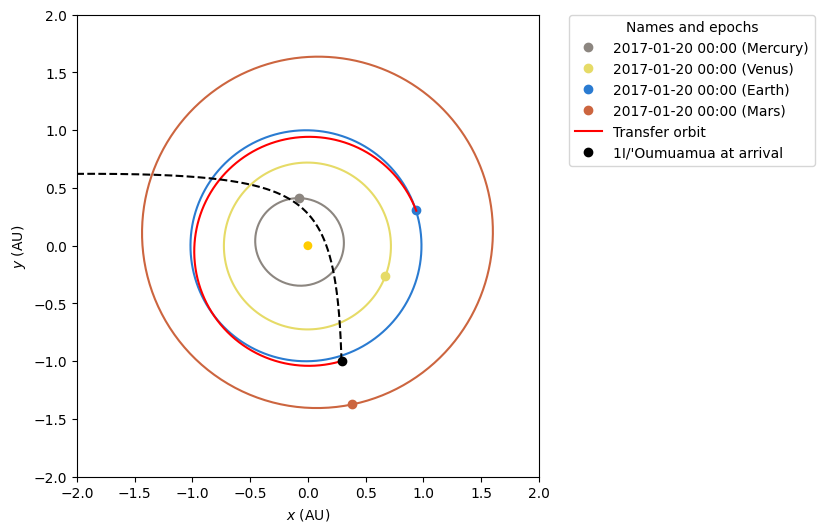
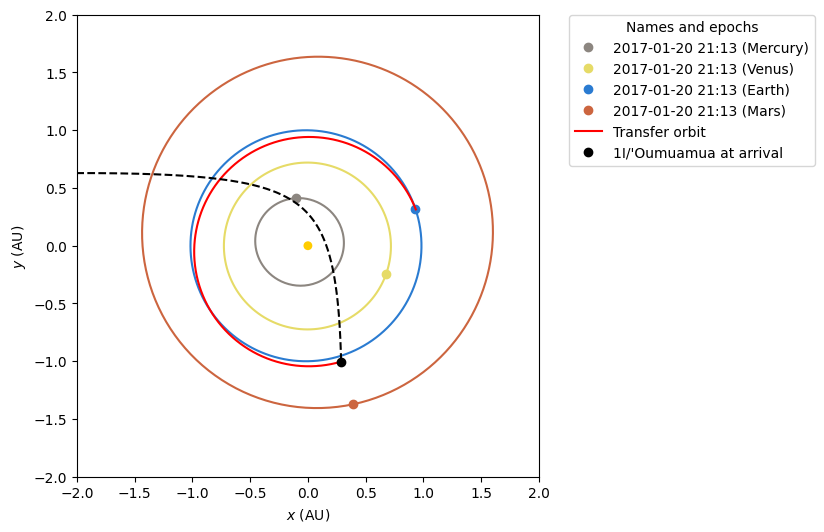
feat: consider escape velocity

diff --git a/bin/oumuamua_porkchop_optimum.py b/bin/oumuamua_porkchop_optimum.py
@@ -2,25 +2,34 @@ from astropy import units as u
 from matplotlib import pyplot as plt
 import numpy as np
 
-from poliastro.ephem import Ephem
+from poliastro.bodies import Sun
 from poliastro.frames import Planes
+from poliastro.ephem import Ephem
+from poliastro.twobody import Orbit
+from poliastro.frames import Planes
+from poliastro.twobody.sampling import EpochsArray
 from poliastro.plotting.porkchop import PorkchopPlotter
 from poliastro.util import time_range
+from poliastro.maneuver import Maneuver
+from poliastro.plotting.misc import plot_solar_system
 
 
 def solve_porkchop(prograde=True):
     # Declare the launch and arrival spans
     N = 200
     launch_span = time_range("2016-10-01", end="2017-10-01", num_values=N, scale="tdb")
-    arrival_span = time_range("2017-09-12", end="2018-04-01", num_values=N, scale="tdb")
+    arrival_span = time_range("2017-09-12", end="2018-01-15", num_values=N, scale="tdb")
 
     # Load the ephemerides for the Earth and 'Oumuamua
     earth = Ephem.from_csv("bin/ephem/earth.csv", plane=Planes.EARTH_ECLIPTIC)
     oumuamua = Ephem.from_csv("bin/ephem/oumuamua.csv", plane=Planes.EARTH_ECLIPTIC)
 
+    # Compute the escape velocity
+    escape_velocity = 11.2 * u.km / u.s
+
     # Compute the porkchop plot
     return PorkchopPlotter(
-        earth, oumuamua, launch_span, arrival_span, prograde=prograde
+        earth, oumuamua, launch_span, arrival_span, prograde=prograde, escape_velocity=escape_velocity
     )
 
 def main():
@@ -80,6 +89,50 @@ def main():
     )
     plt.savefig(f"fig/static/oumuamua/direct-detailed-porkchop-avl.png", bbox_inches="tight")
 
+    # Compute optimum transfer orbit
+    earth_ephem = Ephem.from_csv("bin/ephem/earth.csv", plane=Planes.EARTH_ECLIPTIC)
+    oumuamua_ephem = Ephem.from_csv("bin/ephem/oumuamua.csv", plane=Planes.EARTH_ECLIPTIC)
+
+    # Define the desired times
+    at_launch = porkchop.launch_date_at_c3_launch_min
+    at_arrival = porkchop.arrival_date_at_c3_launch_min
+    epochs = time_range(at_launch, end=at_arrival, num_values=1000, scale="tdb")
+
+    # Build associated orbits
+    earth = Orbit.from_ephem(Sun, earth_ephem, epoch=at_launch)
+    oumuamua = Orbit.from_ephem(Sun, oumuamua_ephem, epoch=at_arrival)
+
+    # Compute the transfer maneuver
+    lambert = Maneuver.lambert(earth, oumuamua)
+    print(f"Total cost: {lambert.get_total_cost()}")
+    print(f"Total time: {lambert.get_total_time().to(u.day)}")
+    for _, dv in lambert.impulses:
+        print(f"Impulses: {dv.to(u.km / u.s)}")
+        print(f"Cost: {(sum(impulse ** 2 for impulse in dv) ** 0.5).to(u.km/u.s)}")
+    transfer, _ = earth.apply_maneuver(lambert, intermediate=True)
+
+    # Model the transfer orbit as an ephem
+    transfer_ephem = transfer.to_ephem(strategy=EpochsArray(epochs))
+
+    view_and_limits = {
+        "xy": [[-2, 2], [-2, 2]],
+        "xz": [[-1.5, 1.5], [-0.5, 1]],
+        "yz": [[-1.5, 1.5], [-0.5, 1]],
+    }
+
+    for view, (xlim, ylim) in view_and_limits.items():
+        plotter = plot_solar_system(epoch=at_launch, outer=False,
+                                    length_scale_units=u.AU,
+                                    plane=Planes.EARTH_ECLIPTIC, view=view)
+        plotter.plot_ephem(transfer_ephem, label="Transfer orbit", color="red")
+        oumuamua_lines, _ = plotter.plot_coordinates(oumuamua_ephem.sample(epochs), position=oumuamua_ephem.rv(at_arrival)[0], label="1I/'Oumuamua at arrival", color="black")
+        oumuamua_lines.set_linestyle("--")
+
+        plotter.backend.ax.set_xlim(xlim)
+        plotter.backend.ax.set_ylim(ylim)
+        if view != "xy":
+            plotter.backend.ax.legend().remove()
+        plt.savefig(f"fig/static/oumuamua/direct-optimum-transfer-{view}.png", bbox_inches="tight")
 
 if __name__ == "__main__":
     main()

diff --git a/src/02_targeting/direct_transfer.tex b/src/02_targeting/direct_transfer.tex
@@ -2,7 +2,8 @@
 
 This section presents the results computed for a direct orbit transfer between
 Earth and the two interstellar objects. The analysis is performed by solving the
-Lambert's problem under the Keplerian assumption.
+Lambert's problem under the Keplerian assumption. In addition, the modulus of the
+escape velocity is added to the required launch velocity.
 
 The algorithm used is the one presented by \cite{izzo2015}, as it is proven to
 be more accurate and faster than other classical algorithms \cite{martinez2021}.
